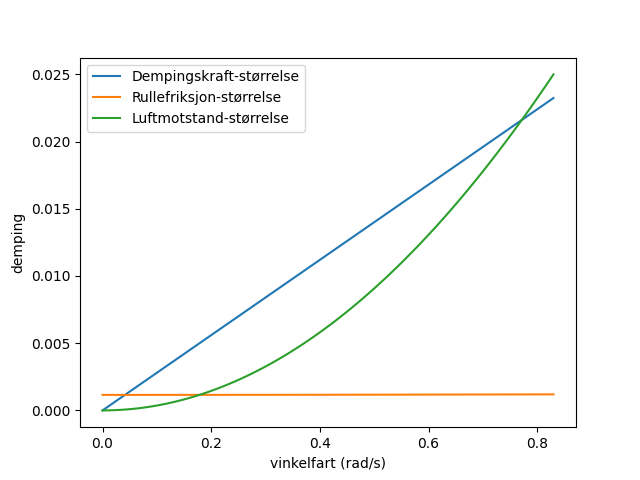
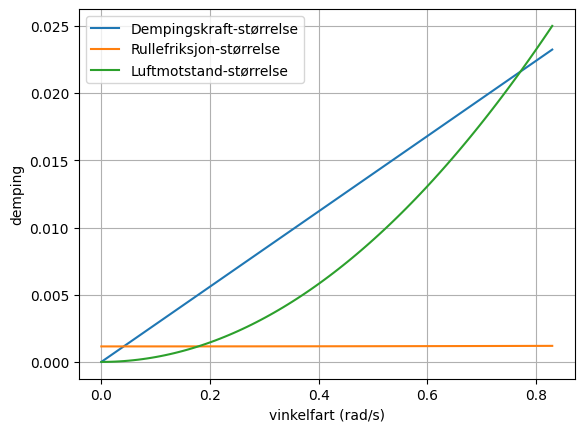
bbox_inches

diff --git a/src/comparison_d_b_r.py b/src/comparison_d_b_r.py
@@ -43,7 +43,8 @@ np.plot(phi_ds, F_d(phis, phi_ds), label= "Luftmotstand-størrelse")
 np.xlabel("vinkelfart (rad/s)")
 np.ylabel("demping")
 np.legend()
+np.grid()
 # np.show()
-np.savefig(Path(__file__).parent.parent / "Plots" / "comparison_d_b_r.png")
+np.savefig(Path(__file__).parent.parent / "Plots" / "comparison_d_b_r.png", bbox_inches="tight")
 
 # print(gradient(F_rs(phis, phi_ds)))

diff --git a/src/data_generering.py b/src/data_generering.py
@@ -119,3 +119,24 @@ def numerical_data_generation() -> list[tuple[np.ndarray, np.ndarray, np.ndarray
 
 if __name__ == "__main__":
     numerical_data_generation()
+
+
+
+
+
+
+
+def foo():
+    return
+
+
+
+
+
+
+
+
+
+
+
+print("Hello")
